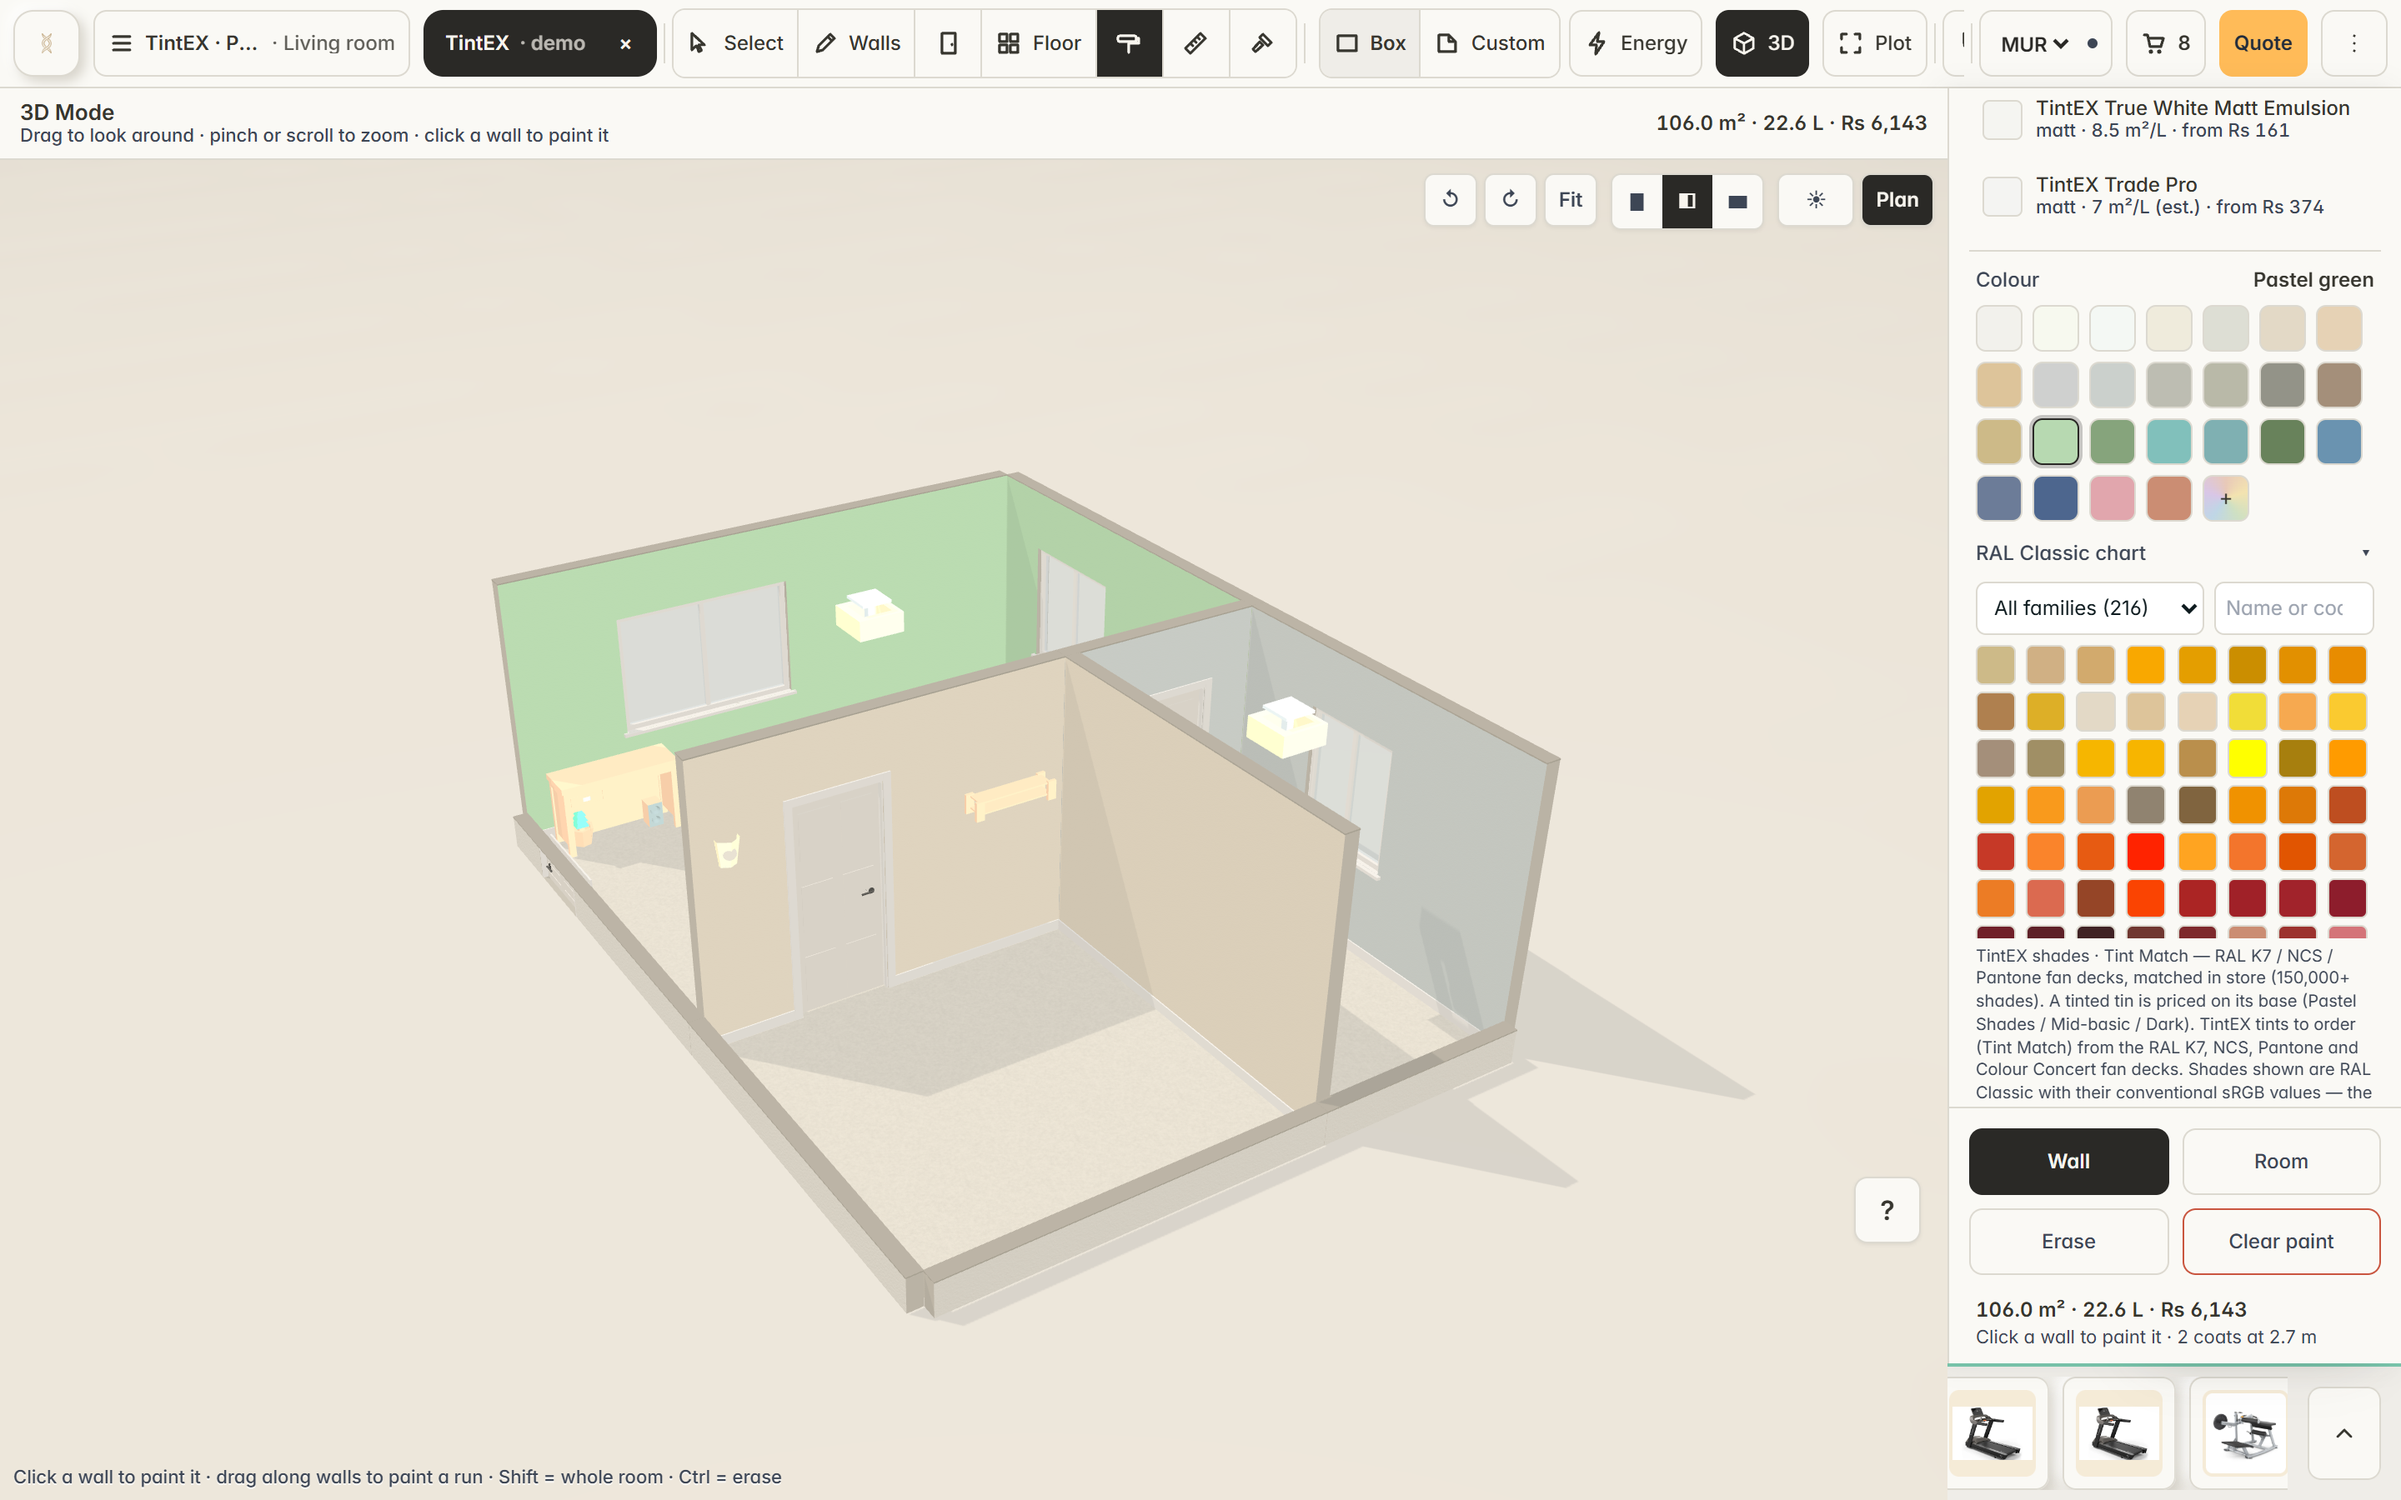
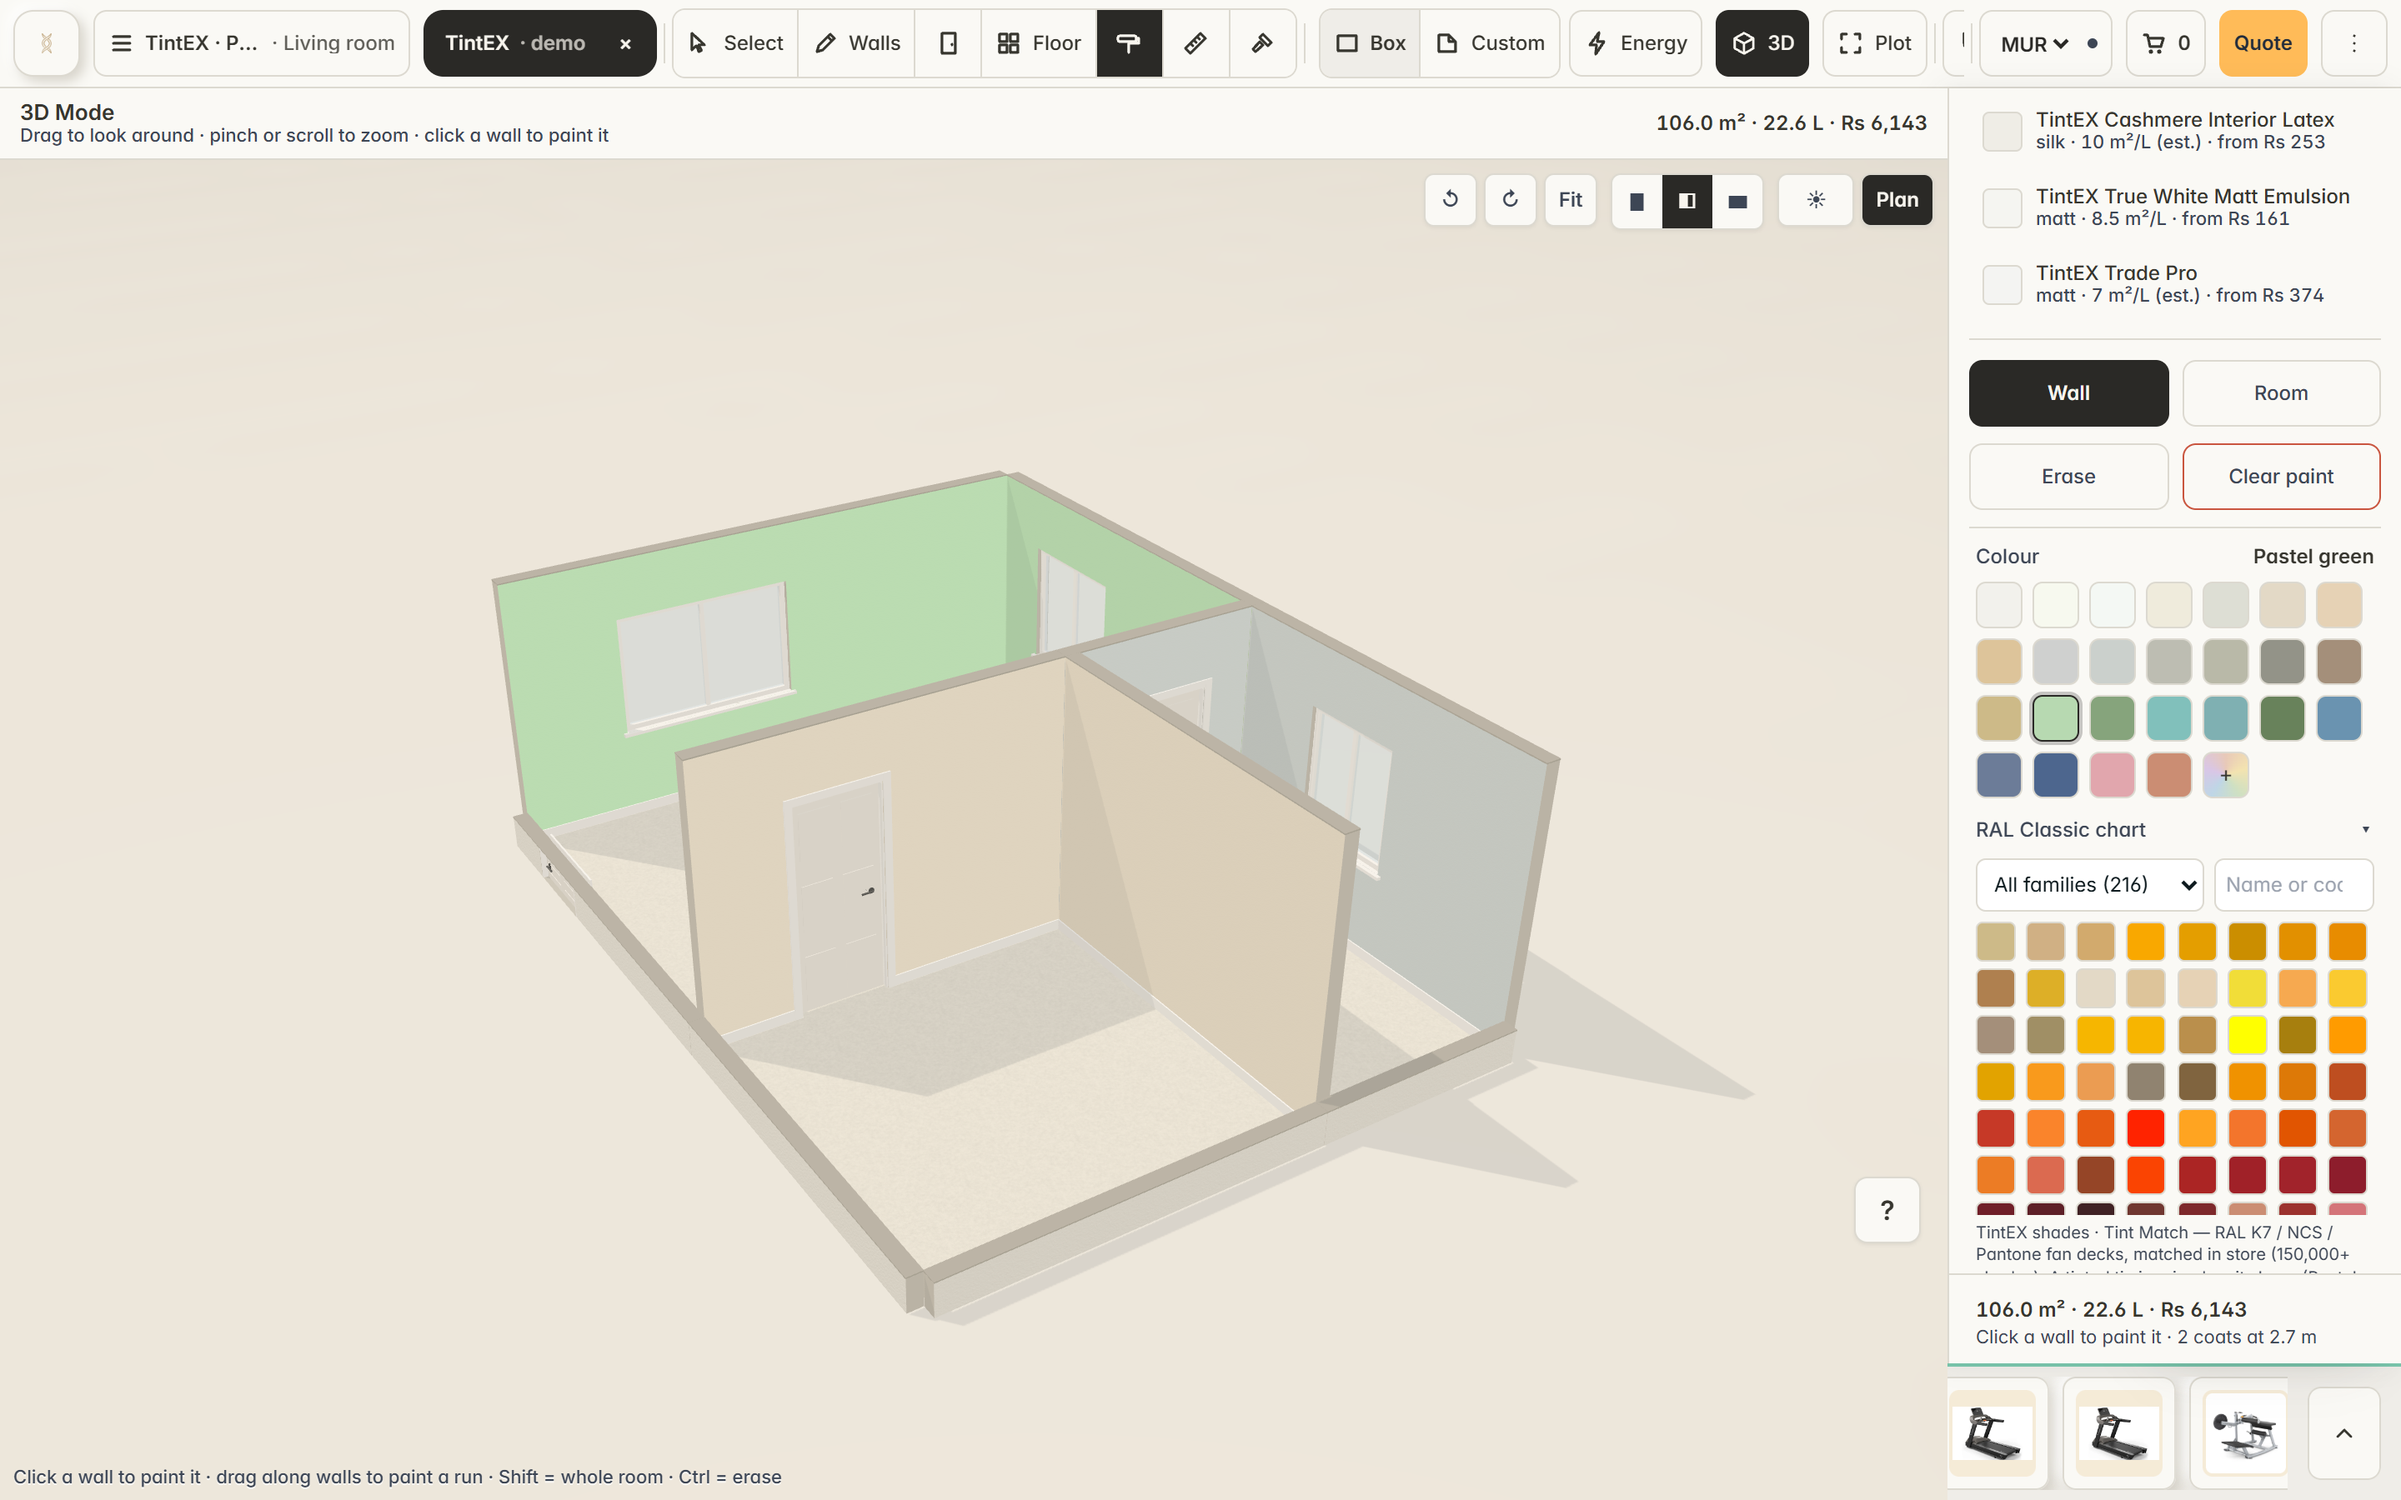
docs(designer): no-stand-ins production evidence at 61e2c5d; README second-pass section; TintEX pack frames re-shot without props
Claude-Session: https://claude.ai/code/session_01FfktFpx5kKc5RjuGP4Adb4

diff --git a/docs/designer-3d-mode-2026-09-17/README.md b/docs/designer-3d-mode-2026-09-17/README.md
@@ -271,6 +271,10 @@ Frames: `C-tintex-studio-cutaway.png` (day), `C-tintex-sun-1730.png` (dusk, sun 
 - E2E on the dev server: `realism-3d` **3/3** (wall + floor + exterior pixels, dressing counts, sun on/night/off, the price on hover) · `paint-sims-3d` 4 · `tintex-paint` 4 · `wallpaint-3d` 8 · `view-mode-3d` 4 · `phone-demo` 4 · `wallpaint` 6 · `eco-solar` + `eco-phone-add` 6 (electrics branch). The whole-suite sweep is recorded in the handoff.
 - `tsc --noEmit`, `npm run build` clean.
 
+## 6 · Second pass — "no random table" (`61e2c5d`, 2026-09-20)
+
+Vic: *"there's a random table there and there's no product, 3D product of a table … a design software operating like The Sims … make sure it functions just like the 2D but in 3D."* The table was a CC0 Kenney desk standing in for the demo console table — one of ten Furniture Kit bodies mapped to demo props since P1. **Law from here: a product wears its own generated body or its own art; no generic model ever stands in.** The ten entries are unmapped (files kept under `public/models/kenney/`, unreferenced); `ThreeStage.artBox` draws a body-less product as a box at its catalog size in its own art (the plan's top-down image on the lid at the plan's rotation, the photo cover-cropped on the sides — `p3-realism/artbox/`); the Sofap and TintEX show flats carry no props; the Captamarin terrace drops its bench, hedge and tree. The paint panel's scope + Erase / Clear block moved under the paint lines (in the first screen), only the live total stays pinned, and the help launcher steps left of a docked panel. Production probe `p3-realism/prod-noprops/`: the TintEX flat holds 0 items, an art-box console table and lamp stand beside the treadmill's real body, 0 requests to `/models/kenney/`.
+
 ## Next
 
-The bench photo → one more $0.30 body; P4 merchant data; P5 Soft chrome; the panel polish the paint-UX audit started (help launcher vs the docked panel, the scope block below a 900 px viewport).
+The bench photo → one more $0.30 body; P4 merchant data (bodies for the Courts range are $0.30 each on Fal — a Vic decision); P5 Soft chrome.
